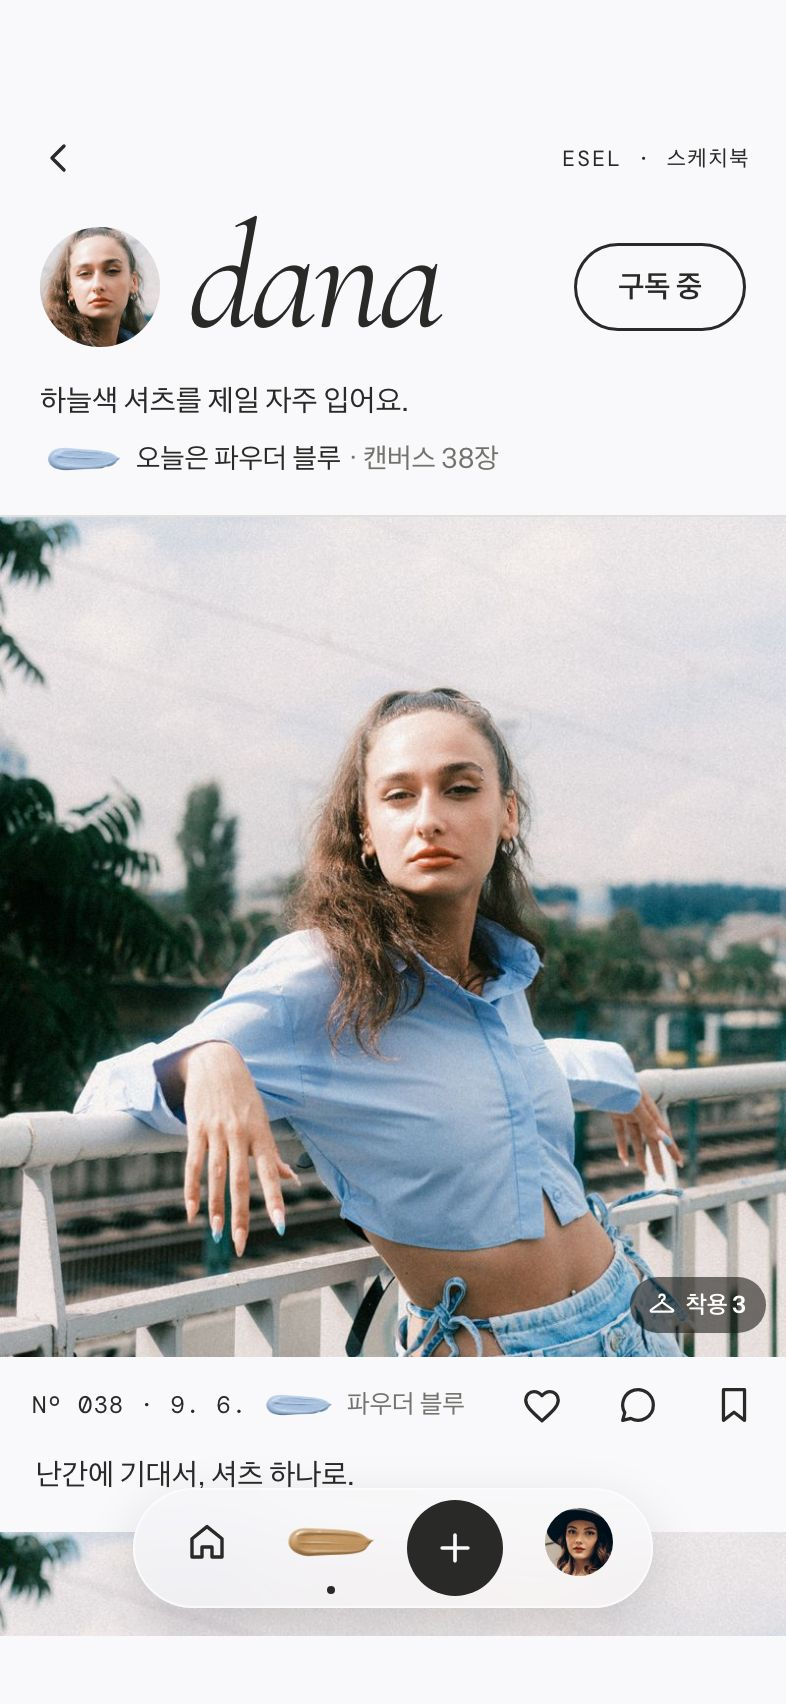
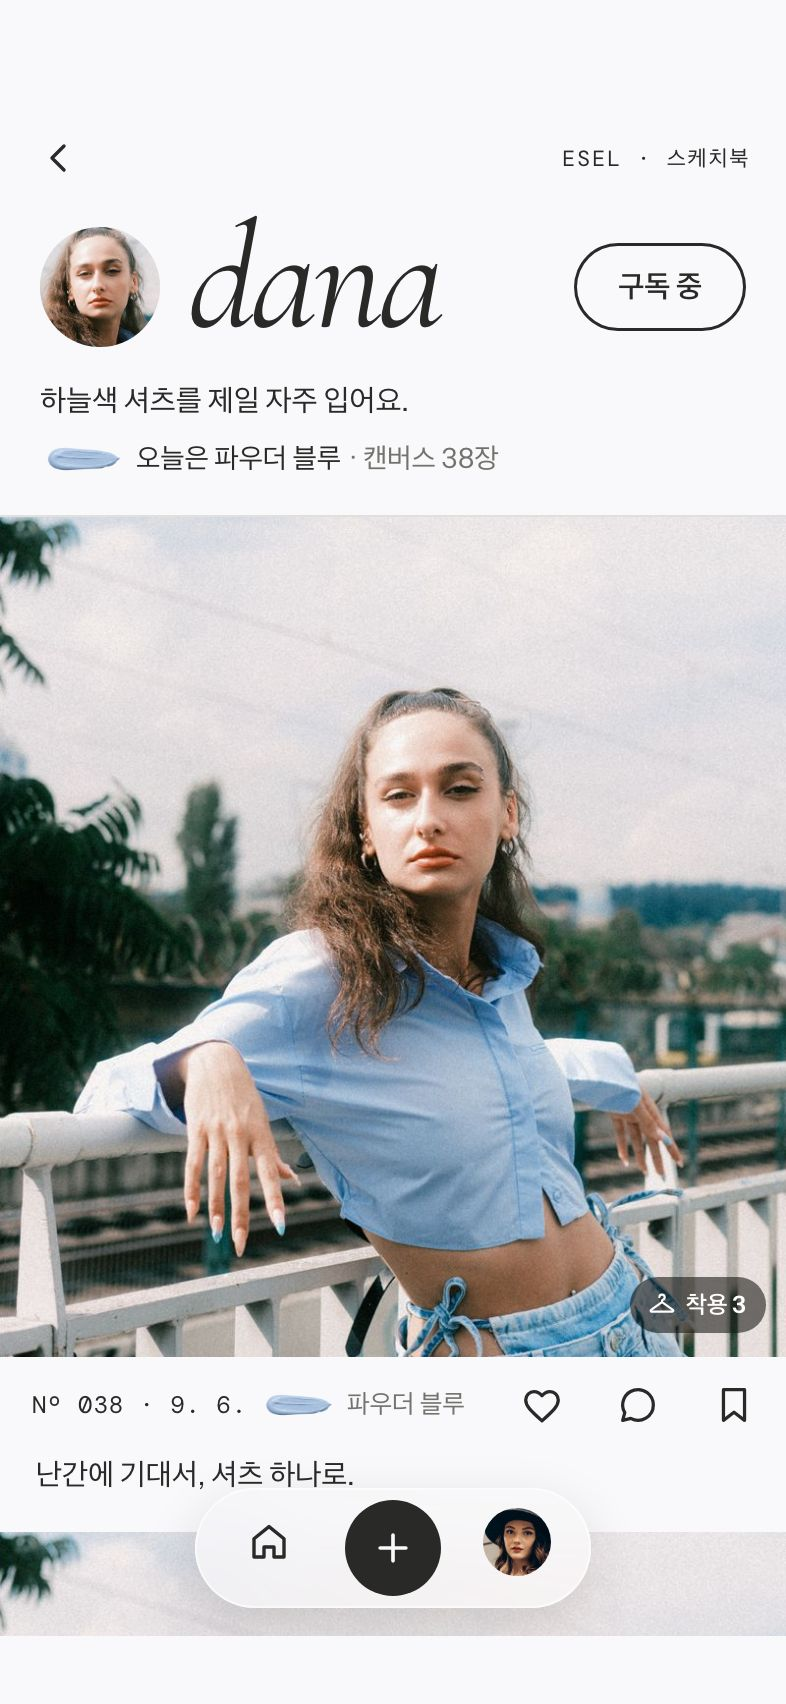
feat: 눌러 보는 목업의 하단 캡슐을 홈↔팔레트가 바뀌는 3칸으로 변경
- 화면이 속한 곳(홈·팔레트·스케치북)에 따라 첫 칸을 팔레트 또는 홈으로 바꿈
- 팔레트에서 연 남의 스케치북·같은 색 방에서도 홈, 점은 내 스케치북에만
- 목업 캡처 다시 찍음(목업 v4로 게시)

Changed region(s): [[0.3053, 0.8709, 0.7939, 0.9642], [0.1832, 0.902, 0.3053, 0.9642]]

diff --git a/.codex/temp/prototype/20261011-app-mockup/src/app.js b/.codex/temp/prototype/20261011-app-mockup/src/app.js
@@ -1,6 +1,7 @@
 'use strict';
 // Esel app mockup: every screen of the design in one tappable page.
-// Structure follows the 10-18 decision: home feed, palette (explore), make, sketchbook, in a four-slot capsule.
+// Structure follows the 10-18 decision: home feed, palette (explore), make, sketchbook, in a three-slot capsule whose
+// first slot swaps between palette (on home) and home (everywhere else).
 // Screen words are art tools (harness §1 table); route and state names keep the code names (feed, stand, same, shelf, me, spread, make).
 // Photos, face boxes and the twelve colours come from the canvas generator (injected as ESEL_DATA at build time).
 // Nothing is saved or sent: state lives in memory and resets on reload.
@@ -254,8 +255,8 @@ ${bottom ? `<div class="bottom-bar">${bottom}</div>` : ''}
 const row = ({ go, act, title, sub = '', lead = '', chev = true, attrs = '' }) => `<button type="button" class="row" ${go ? `data-go="${go}"` : ''} ${act ? `data-act="${act}"` : ''} ${attrs}>${lead}<span class="t"><b>${title}</b>${sub ? `<span>${sub}</span>` : ''}</span>${chev ? `<span class="chev">${icon('right', 20)}</span>` : ''}</button>`;
 // Palette and sketchbook are tab roots when they sit right above home; only deeper copies get a back button.
 const isTabRoot = () => stack.length <= 2;
-// The capsule marks the tab the current screen belongs to: the nearest home, palette or sketchbook below it in the stack.
-// So someone's sketchbook opened from the palette keeps the palette dot. Making a canvas is a modal step and never marked.
+// The place the current screen belongs to: the nearest home, palette or sketchbook below it in the stack.
+// So someone's sketchbook opened from the palette still belongs to the palette (and the capsule offers home).
 function activeTab() {
   for (let i = stack.length - 1; i >= 0; i--) {
     const n = stack[i].name;
@@ -265,14 +266,16 @@ function activeTab() {
   }
   return 'feed';
 }
-// Glass capsule, four slots (10-18): home · palette (my paint of the day) · make (+) · my sketchbook (my avatar).
+// Glass capsule, three slots (10-18): a swap slot · make (+) · my sketchbook (my avatar).
+// The swap slot offers the other place: palette (my paint of the day) on home, home in the palette or my sketchbook.
+// Only my sketchbook gets the 4px dot; the swap slot shows where you can go, and making a canvas is a modal step.
 function capsule(cur) {
-  const slot = (tab, label, inner) => `<button type="button" class="slot" data-tab="${tab}" aria-label="${label}"${cur === tab ? ' aria-current="page"' : ''}>${inner}</button>`;
+  const slot = (tab, label, inner, here = false) => `<button type="button" class="slot" data-tab="${tab}" aria-label="${label}"${here ? ' aria-current="page"' : ''}>${inner}</button>`;
+  const swap = cur === 'feed' ? slot('stand', '팔레트', paintImg(S.me.color, 52)) : slot('feed', '홈', icon('home', 24, 1.7));
   return `<nav class="capsule glass" aria-label="주요 화면">
-${slot('feed', '홈', icon('home', 24, 1.7))}
-${slot('stand', '팔레트', paintImg(S.me.color, 52))}
+${swap}
 <span class="make-slot"><button type="button" class="make" data-tab="make" aria-label="오늘의 캔버스 만들기">${icon('plus', 22, 2)}</button></span>
-${slot('me', '내 스케치북', avatar(ME, 34))}
+${slot('me', '내 스케치북', avatar(ME, 34), cur === 'me')}
 </nav>`;
 }
 // Reactions carry no numbers on someone else's canvas; the owner sees their own counts (P18).

diff --git a/.codex/temp/prototype/20261011-app-mockup/src/shell.html b/.codex/temp/prototype/20261011-app-mockup/src/shell.html
@@ -169,9 +169,9 @@ body.phone #device { border-radius: 0; box-shadow: none; --st: 8px; --sb: 14px; 
 .glass { background: rgba(249, 249, 251, 0.58); -webkit-backdrop-filter: blur(22px) saturate(1.6); backdrop-filter: blur(22px) saturate(1.6); box-shadow: inset 0 0 0 1px rgba(255, 255, 255, 0.6), 0 10px 28px rgba(0, 0, 0, 0.14); }
 @media (prefers-reduced-transparency: reduce) { .glass { background: var(--paper); -webkit-backdrop-filter: none; backdrop-filter: none; } }
 @media (prefers-contrast: more) { .glass { background: var(--paper); box-shadow: inset 0 0 0 1.5px var(--ink); } }
-/* Capsule, 10-18: four slots of 62 in 260×60 (home · palette · make · sketchbook), a 4px dot under the screen in view.
-   Making a canvas is a modal step, so the + never gets the dot. */
-.capsule { position: absolute; left: 50%; bottom: var(--sb); width: 260px; height: 60px; margin-left: -130px; box-sizing: border-box; padding: 0 6px; border-radius: 30px; display: flex; align-items: center; justify-content: space-between; z-index: 20; color: var(--ink); }
+/* Capsule, 10-18: three slots of 62 in 198×60 (swap · make · sketchbook). The swap slot is palette on home and home
+   elsewhere; only my sketchbook gets the 4px dot. Making a canvas is a modal step, so the + never gets the dot. */
+.capsule { position: absolute; left: 50%; bottom: var(--sb); width: 198px; height: 60px; margin-left: -99px; box-sizing: border-box; padding: 0 6px; border-radius: 30px; display: flex; align-items: center; justify-content: space-between; z-index: 20; color: var(--ink); }
 .capsule.solid { background: var(--paper); -webkit-backdrop-filter: none; backdrop-filter: none; }
 .capsule .slot { position: relative; width: 62px; height: 48px; box-sizing: border-box; padding-bottom: 6px; display: flex; align-items: center; justify-content: center; }
 .capsule .slot[aria-current="page"]::after { content: ''; position: absolute; left: 50%; bottom: 1px; width: 4px; height: 4px; margin-left: -2px; border-radius: 50%; background: var(--ink); }

diff --git a/.codex/temp/prototype/20261011-app-mockup/README.md b/.codex/temp/prototype/20261011-app-mockup/README.md
@@ -1,6 +1,6 @@
 # 앱 목업 (2026-10-11)
 
-2026-10-18 개편: 10-18 디자인 개편(하네스 §1·§2)에 맞췄다. 하단 캡슐은 홈 · 팔레트 · 만들기 · 스케치북 4칸, 홈의 전체/구독 탭은 없앴고(구독은 팔레트 구독 탭), 가판대는 팔레트(추천 · 색상 ▾ · 구독, 작은 3열 격자), 서가·내 잡지는 스케치북(사진이 최신부터 세로로), 자세히 보기와 만들기에 착용 정보(P19), 얼굴은 자르기 하나 + 물감 한 획(P15)이다. 화면 단어는 미술 도구 이름이고, 경로·상태 이름(feed·stand·same·shelf·me·spread·make)은 코드 이름 그대로다.
+2026-10-18 개편: 10-18 디자인 개편(하네스 §1·§2)에 맞췄다. 하단 캡슐은 바뀌는 칸 · 만들기 · 스케치북 3칸(첫 칸이 홈에서는 팔레트, 그 밖에서는 홈), 홈의 전체/구독 탭은 없앴고(구독은 팔레트 구독 탭), 가판대는 팔레트(추천 · 색상 ▾ · 구독, 작은 3열 격자), 서가·내 잡지는 스케치북(사진이 최신부터 세로로), 자세히 보기와 만들기에 착용 정보(P19), 얼굴은 자르기 하나 + 물감 한 획(P15)이다. 화면 단어는 미술 도구 이름이고, 경로·상태 이름(feed·stand·same·shelf·me·spread·make)은 코드 이름 그대로다.
 
 2026-10-17 추가(CH1): 팔레트와 내 스케치북 → 이번 주 주제. 이번 주 주제·같은 옷, 다른 코디 안내와 기존 만들기 흐름을 연결했다. 목업은 메모리 예시이며 지난 캔버스 선택은 안내만 표시한다. 실제 로컬 저장·비교·기간/계정 검증은 Flutter 앱에서 한다([실행 안내](../../../../docs/flutter/LOCAL_CONTENTS.md)). 월·연간 베스트/공개 순위는 제외했다.
 
@@ -34,7 +34,7 @@ npm run mockup:build
 |---|---|---|
 | 비로그인·로그인 | 첫 표지, 맛보기 2쪽 뒤 로그인 바(로그인 / 내 스케치북 만들기), 로그인 시트 | J1, J1b, J2 |
 | 첫 캔버스(가입) | 색 → 촬영 → 사인 → 얼굴(자르기 + 물감 한 획) → 첫 캔버스 | J3–J7 |
-| 하단 캡슐 | 홈 · 팔레트(내 오늘의 색 물감) · 만들기(+) · 스케치북(내 아바타), 지금 보는 탭 아래 4px 점. 남의 스케치북은 들어온 탭(팔레트에서 열면 팔레트)의 점을 유지, 만들기는 점 없음 | 02 컴포넌트 |
+| 하단 캡슐 | 바뀌는 칸 · 만들기(+) · 스케치북(내 아바타). 바뀌는 칸은 홈에서 팔레트(내 오늘의 색 물감), 팔레트와 내 스케치북에서 홈. 화면이 어디에 속하는지는 쌓인 화면 중 가장 가까운 홈·팔레트·스케치북으로 정해서, 팔레트에서 연 남의 스케치북은 홈을 보여 준다. 4px 점은 내 스케치북에서만, 만들기는 점 없음 | 02 컴포넌트 |
 | 홈 | 첫 장만 표지(탭 없음), 사인 녹아들기, 안쪽 지면, 착용 n 알약. 다음 표지(어두운 사진)는 안내의 장면 바로가기로 | C1, C2, C7 |
 | 자세히 보기 | 큰 제목, 사진 위 태그 점과 착용 n, 착용 정보 목록(오늘의 색 옷에 물감 칩, 가격·링크 없음), 한 줄 쓰기. 점을 누르면 그 줄이 밝아짐 | C3 |
 | 팔레트 | 추천 · 색상 ▾ · 구독, 작은 3열 격자(칸 = 그 사람의 표지를 줄인 것). 칸을 누르면 그 사람의 스케치북. 올리기 전에는 후보 3색 사진을 뺌 | C4, C4subs |
